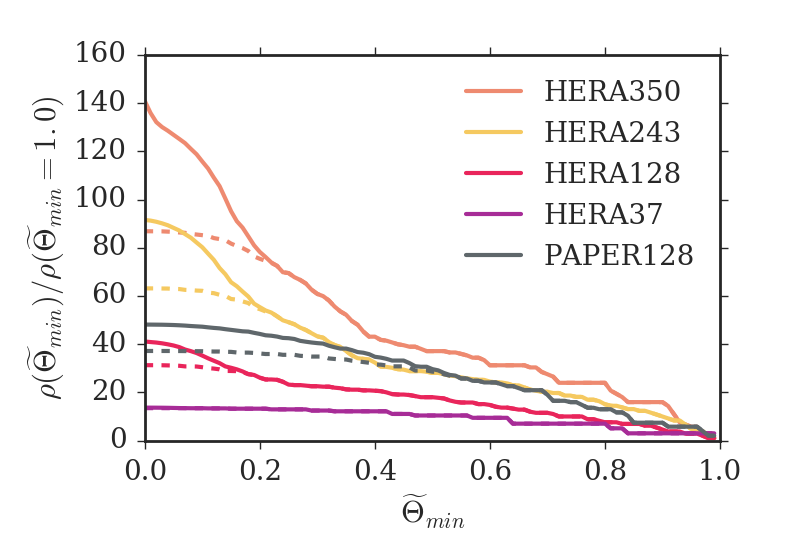
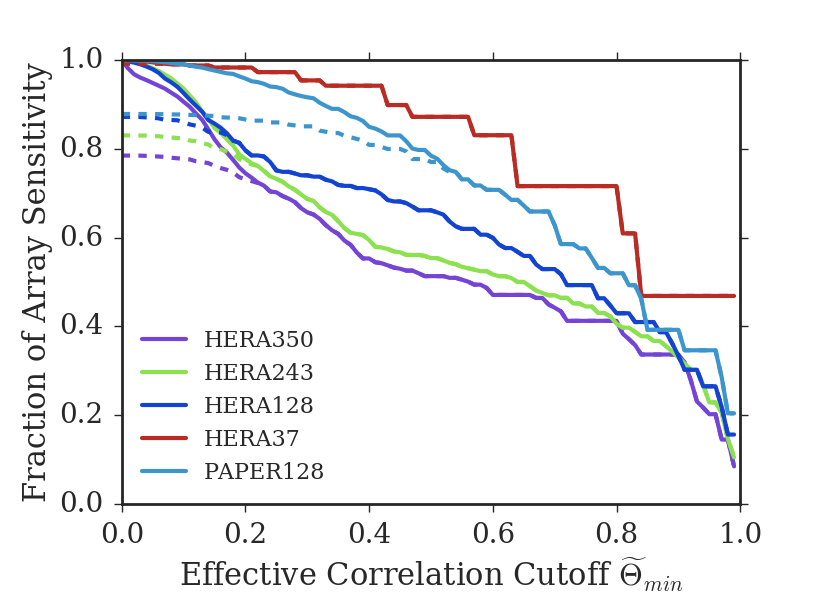
new draft

diff --git a/Rotation paper/draft_working.tex b/Rotation paper/draft_working.tex
@@ -46,7 +46,7 @@ of its own, but also as a gateway to crucial information
 regarding fundamental physics of inflation, neutrino mass, and the phenomenology
 of the first stars and galaxies (e.g. \citealt{LiuOpticalDepth, Liu2016b, Mao2008, DEw21cm, Bull2015, Oyama20131186}). 
 
-Observational studies of reionization, including Gunn-Peterson measurements of quasi-stellar objects \citep{Fan2006} and Cosmic Microwave Background temperature and anisotropy measurements (CMB; \citealt{Planck2016}), the Kinetic Sunyaev-Zeldo'vich effect \citep{kszpatchy} and Lyman alpha galaxy observations \citep{mcquinnLyA} have given us indications of the rough time-frame of reionization, but only limited constraints on the finer spatial and temporal structures. A surge of recent radio-astronomical experiments of reionization focus on measuring the ``spin-flip'' transition of neutral
+Observational studies of reionization, including Gunn-Peterson measurements of quasi-stellar objects \citep{Fan2006} and Cosmic Microwave Background temperature and anisotropy measurements (CMB; \citealt{Planck2016}), the Kinetic Sunyaev-Zeldo'vich effect \citep{ZahnKSZ, GeorgeKSZ, kszpatchy} and Lyman alpha galaxy observations \citep{Rhoads2017, Rhoads2012, mcquinnLyA} have given us indications of the rough time-frame of reionization, but only limited constraints on the finer spatial and temporal structures. A surge of recent radio-astronomical experiments of reionization focus on measuring the ``spin-flip'' transition of neutral
 hydrogen with a characteristic wavelength of 21\,cm \citep{Furlanetto2006181,PritchardLoeb}.
 The 21\,cm brightness temperature is a direct tracer of neutral hydrogen through the epoch of reionization, and thus by measuring the three dimensional distribution of the 21\,cm signal we measure the full temporal and spatial variations of this event. 
 However, before realizing full-scale 21\,cm tomography, many current radio interferometric efforts
@@ -55,7 +55,7 @@ Current-generation instruments include the Donald C. Backer Precision Array for 
 the Epoch of Reionization (PAPER; \citealt{Ali2015,paper32}), Murchison
 Widefield Array (MWA; \citealt{Bowman2013, Tingay2013}), Low Frequency Array (LOFAR; \citealt{LOFAR}). Next-generation instruments include the Hydrogen Epoch of Reionization
 Array (HERA; e.g. \citealt{HERA,HERAconfiguration,HERABEAM1,HERADISH2}) under construction, 
-and the Square Kilometer Array Low (SKA-low; e.g. \citealt{SKA1}) currently in planning stages. 
+and the Square Kilometer Array Low (SKA-low; e.g. \citealt{skalow2015} and references therein) currently in planning stages. 
 
 The highly redshifted 21\,cm signal is faint and diffuse, in contrast to the localized bright sources targeted by many traditional radio telescopes.  Current 21\,cm experiments are sensitivity-starved, with the sensitivity requirement further increased considering the foreground contaminations five orders of magnitude brighter than the cosmological signal of interest. Low-frequency radio interferometers aiming to measure the 21\,cm signal are thus designed differently from traditional instruments. To satisfy the sensitivity needs, modern arrays are large. Ranging upwards from 100 elements, these arrays are typically of the drift-scan type to limit cost. To further improve sensitivity, specially designed arrays such as PAPER and HERA feature multiple copies of the same baselines to repeatedly measure the same Fourier signal\citep{first-paper}. 
 
@@ -225,12 +225,11 @@ Eqs. \eqref{eq:nur} and \eqref{eq:thinshell} show that observational angular and
 \normalsize
 Here the delay $\tau$ is the Fourier dual of $\nu$. Eq. \eqref{eq:Vb1} expresses the delay-transformed visibility as
 an integral over observational coordinates $\hat{\boldsymbol{s}}$ and $\nu$. For notational simplicity here and in the rest of this paper, we have defined the quantity
+
 \[
 B(\hat{\boldsymbol{s}},\nu) \equiv \frac{2k_B}{\lambda^2}\phi(\nu)A(\hat{\boldsymbol{s}},\nu). 
 \label{eq:B}
 \]
-
-
 
 With Eqs. \eqref{eq:nur} and \eqref{eq:thinshell}, we can rewrite the delayed-transformed visibility in cosmological coordinates as 
 \small
@@ -356,7 +355,7 @@ To illustrate the effect of rephasing, we compare in Fig. \ref{fig:freqdiff} rea
 We see from Fig. \ref{fig:freqdiff} that although the amplitude of correlations match up for all time offsets, the phase would only locally match. The need for rephasing can thus be understood as a symptom of the underlying spatial decoherence; coherence at the phase center would not extend to the entire beam pattern (see Section \ref{sec:visual}). Thus while integrating over frequencies and sky-direction in Eq. \eqref{eq:Theta} there are necessarily sky-directions that do not add coherently. This decoherence across the beam pattern cannot be removed and plays a fundamental role in determining how much sensitivity one can recover from nearly equivalent baselines. 
 
 \begin{figure}[H]
-\includegraphics[width=1.1\linewidth]{rephs}
+\includegraphics[width=1.1\linewidth]{rephs_cm}
 
 \caption{Comparisons of the peak phases of two different frequencies. Specifically shown are the real parts of $\Theta_{\nu}$. First and third panels shows equivalent baselines, second and fourth show a pair of nearly equivalents. The top two panels have zero phase shift ($\psi_{\nu}=0$), and the bottom two are rephased to a time offset of 0.0325 sidereal days. The first and last panels thus show a coherently rephased series that would add constructively at the respective peaks. }
 \label{fig:freqdiff}
@@ -370,10 +369,10 @@ In this section we delve into visualizing and testing our method, and explore se
 So far for clarity and generality we have avoided the traditional formulation of radio astronomy in terms of the $uv$-plane. To gain some visual intuition of the formalism in Section \ref{sec:method}, we show explicit beam fringe patterns of the two baselines and their interactions. For this section, we relax into the flat sky approximation so that $(l,m,\sqrt{1-l^2-m^2})\equiv\hat{s}$ and examine a single frequency of $150$\,MHz. 
 
 At the time offset of maximum redundancy, we expect two baselines to have to same fringe pattern in both frequency and phase. Due to the time delay, however, the beam centers would be slightly shifted with respect to each other. In the top panels of Fig. \ref{fig:beamfringe}, we show the real parts of peak-normalized beam-fringe patterns. The top left and middle panels show the beam-fringe
-patterns for the baseline classes \{2,0\} and \{2,1\}, offset by 0.0325 sidereal days. More specifically, displayed are the real parts of $B(\hat{\boldsymbol{s}},\nu)\exp\left[-i2\pi\frac{\nu}{c}\hat{\boldsymbol{s}}\cdot\boldsymbol{b}\right]$ and $B(\boldsymbol{\Gamma}\hat{\boldsymbol{s}},\nu)\exp\left[-i2\pi\frac{\nu}{c}\boldsymbol{\Gamma}\hat{\boldsymbol{s}}\cdot\boldsymbol{b'}\right]$, respectively. The top right panel show their conjugate product $B^{*}(\hat{\boldsymbol{s}},\nu)B(\boldsymbol{\Gamma}\hat{\boldsymbol{s}},\nu)\exp\left[i2\pi\frac{\nu}{c}\left(\hat{\boldsymbol{s}}\cdot\boldsymbol{b}-\boldsymbol{\Gamma}\hat{\boldsymbol{s}}\cdot\boldsymbol{b'}\right)-i\psi_{\nu}\right]$, where we have chosen global phase $\psi_{\nu}$ such that the peak of the conjugate product is real. The product of the beam fringe patterns in top right shows that the fringes
- cancel out as we expect. Comparing with Eq. \eqref{eq:Thetanu}, we see that $\Theta_\nu$ is the sum over the top right plot. Thus we show that at the optimal time offset the fringe patterns of the two baselines cancel out, leading to a substantial weight $\Theta_\nu$. The frequency-summed weight $\Theta$ is constructed with rephasing as described in Section \ref{sec:rephs} so that the conjugate product (top right panel) for different frequencies align in phase. 
+patterns for the baseline classes \{2,0\} and \{2,1\}, offset by 0.0325 sidereal days. More specifically, displayed are the real parts of $g_b\equiv B(\hat{\boldsymbol{s}},\nu)\exp\left[-i2\pi\frac{\nu}{c}\hat{\boldsymbol{s}}\cdot\boldsymbol{b}\right]$ and $g_{b'}\equiv B(\boldsymbol{\Gamma}\hat{\boldsymbol{s}},\nu)\exp\left[-i2\pi\frac{\nu}{c}\boldsymbol{\Gamma}\hat{\boldsymbol{s}}\cdot\boldsymbol{b'}\right]$, respectively. The top right panel show their conjugate product $g_{b}^{*}g_{b'} = B^{*}(\hat{\boldsymbol{s}},\nu)B(\boldsymbol{\Gamma}\hat{\boldsymbol{s}},\nu)\exp\left[i2\pi\frac{\nu}{c}\left(\hat{\boldsymbol{s}}\cdot\boldsymbol{b}-\boldsymbol{\Gamma}\hat{\boldsymbol{s}}\cdot\boldsymbol{b'}\right)-i\psi_{\nu}\right]$, where we have chosen global phase $\psi_{\nu}$ such that the peak of the conjugate product is real. The product of the beam fringe patterns in top right shows that the fringes
+ cancel out as we expect. Comparing with Eq. \eqref{eq:Thetanu}, we see that $\Theta_\nu=\int d\Omega g_{b}^{*}g_{b'}$ is the sum over the image shown in the top right panel. Thus we show that at the optimal time offset the fringe patterns of the two baselines cancel out, leading to a substantial weight $\Theta_\nu$. The frequency-summed weight $\Theta$ is constructed with rephasing as described in Section \ref{sec:rephs} so that the conjugate product (top right panel) for different frequencies align in phase. 
  
-Similarly, we show the correlation of the two baselines in terms of their $uv$ beam spread overlap. The bottom left and middle panels are (peak-normalized) instantaneous $uv$ coverage of two baselines while the bottom right panel is their product. We see from the bottom right panel that the cross-multiplied baselines recover power concentrated at $u\approx15$. The product of the $uv$ beams spread shown in the bottom right panel should not be confused with the Fourier transform of the beam-fringe conjugate product shown in the top right panel. 
+Similarly, we show the correlation of the two baselines in terms of their $uv$ beam spread overlap. The bottom left and middle panels are (peak-normalized) instantaneous $uv$ coverage of two baselines ($\widetilde{g}_{b}$ and $\widetilde{g}_{b'}$) while the bottom right panel is their product. We see from the bottom right panel that the cross-multiplied baselines recover power concentrated at $u\approx15$. The product of the $uv$ beams spread shown in the bottom right panel should not be confused with the Fourier transform of the beam-fringe conjugate product shown in the top right panel. 
 
 \begin{figure*}[h!]
 \includegraphics[width=\textwidth]{BeamFringe}
@@ -526,9 +525,9 @@ With $\widetilde{\Theta}_{\boldsymbol{bb'}}$, we can estimate the power spectrum
 where the sum is over classes of baseline pairs, and the power spectrum noise covariance $\sigma_P^2$ is proportional to the effective weight $\widetilde{\Theta}$. 
 
 
-We define the estimator sensitivity to be the inverse of the total power spectrum noise variance $\Sigma_P^2$:
+We define the estimator sensitivity to be the square root of the inverse of the total power spectrum noise variance $\Sigma_P^2$:
 \begin{equation}
-\rho \propto 1/\Sigma_P^2 \propto \rho_0^2\sum_{\boldsymbol{bb'}}^N\widetilde{\Theta}^2_{\boldsymbol{bb'}},
+\rho \propto 1/\Sigma_P \propto \rho_0\sqrt{\sum_{\boldsymbol{bb'}}^N\widetilde{\Theta}^2_{\boldsymbol{bb'}}},
 \end{equation}
 where, if $\sigma_S^2$ and $\sigma_N^2$ are the characteristic signal and noise levels of a single-baseline visibility, $\rho_0\equiv\sigma_S^2/\sigma_N^2$ is the signal to noise ratio. 
 
@@ -562,24 +561,25 @@ In Fig. \ref{fig:pairplot} we present pair-distributions of three different prop
 \begin{itemize}
 
 \item $\Delta t_{\boldsymbol{bb'}}$ vs. $\widetilde{\Theta}_{\boldsymbol{bb'}}$:
-This relation  is familiar from Fig. \ref{fig:sensplot}. The points at $\Delta t=0$ are the equivalent baselines. Note HERA arrays have fewer data points with high $\Delta t_{\boldsymbol{bb'}}$, due to their comparatively narrow beam. 
+This relation  is familiar from Fig. \ref{fig:sensplot}. The points at $\Delta t=0$ are the equivalent baselines. Note HERA arrays have fewer data points with high $\Delta t_{\boldsymbol{bb'}}$, due to their comparatively narrow beam. Also note that all near-equivalent pairs for HERA arrays appear at $\widetilde{\Theta}_{\boldsymbol{bb'}}\lesssim 0.4$.
 
 \item $\Delta t_{\boldsymbol{bb'}}$ vs. $\bar{b}$:
 PAPER-128 shows the trend that longer baselines correspond to lower $\Delta t_{\boldsymbol{bb'}}$. HERA arrays do not exhibit this trend here because of a selection effect. Only baseline pairs with $\widetilde{\Theta}_{\boldsymbol{bb'}}>0.01$ are shown. Shorter HERA baselines require much longer $\Delta t$ to overlap, partly because of the hexagonal structure requires $60\degree$ of rotation to overlap baselines, partly because of the smaller primary beam. Thus most short HERA baseline pairs are not shown in this figure.
 
 
 \item $\widetilde{\Theta}_{\boldsymbol{bb'}}$ vs. $\bar{b}$:
-The general trend to be seen here is that longer baselines tend to have lower $\widetilde{\Theta}_{\boldsymbol{bb'}}$. This is due to the lower multiplicity of longer baselines. The trend is particularly obvious in the linear structure for the HERA arrays, which are the equivalent baselines. Since they all have the unity $\Theta_{\boldsymbol{bb'}}$ by definition, the linearly decreasing trend of $\widetilde{\Theta}_{\boldsymbol{bb'}}$ is a direct measure of the baseline multiplicity structures of the HERA array configurations.
+In this plot the HERA arrays each show two superimposed structures.  The equivalent baselines, all having the same individual weight $\Theta_{\boldsymbol{bb'}}$, appear as elongated structures towards high $\widetilde{\Theta}_{\boldsymbol{bb'}}$. The narrowness of these structures is an indication of the approximately linear and one-to-one correspondence between baseline length and multiplicity. The wide structures spanning the whole range of $\bar{b}$ are the near-equivalent baseline pairs. We see again for HERA arrays all near-equivalent pairs appear at $\widetilde{\Theta}_{\boldsymbol{bb'}}\lesssim 0.4$. For PAPER-128, the existence of short near-equivalent pairs with high multiplicity partially fills the high $\widetilde{\Theta}_{\boldsymbol{bb'}}$ region. 
+Note the general trend that longer baselines tend to have lower $\widetilde{\Theta}_{\boldsymbol{bb'}}$. This is due to the lower multiplicity of longer baselines. The trend is particularly obvious in the linear structure for the HERA arrays, which are the equivalent baselines. Since they all have the unity $\Theta_{\boldsymbol{bb'}}$ by definition, the linearly decreasing trend of $\widetilde{\Theta}_{\boldsymbol{bb'}}$ is a direct measure of the baseline multiplicity structures of the HERA array configurations.
 
 \item The top sensitivity-contributing near-equivalent pair in each array is normalized to the same $\Theta_{\boldsymbol{bb'}}$ (not shown), but those of HERA arrays have much lower $\widetilde{\Theta}_{\boldsymbol{bb'}}$ than the top pair of PAPER-128. This is because they are longer baselines with lower multiplicity. In the end these baseline classes still lead to high contributions to total sensitivity (Fig. \ref{fig:osens}) because there are a lot more such baseline pairs for HERA.  
 
 \end{itemize}
 
-Clearly not all baseline pairs give significant contribution to sensitivity. Due to the large number of baseline pairs, it may not be computationally feasible to include all pairs. Having quantified the sensitivity from a given pair of baselines, we study the cumulative sensitivity of the array depending on which baseline pairs we include. Evidently we should prefer the pairs with larger $\widetilde{\Theta}_{\boldsymbol{bb'}}$. In Fig. \ref{fig:osens} we plot $\rho$ against the minimum $\widetilde{\Theta}_{\boldsymbol{bb'}}$. $\rho(\widetilde{\Theta}_{min})$ is the sensitivity of the array when baseline-pairs that have $\widetilde{\Theta}_{\boldsymbol{bb'}}>\widetilde{\Theta}_{min}$ are included. The dashed lines represent the values when only the equivalent baseline-pairs are used.  We see as expected that in all cases using the nearly equivalent baselines lead to more and more significant improvements with lower $\widetilde{\Theta}_{min}$, or in other words when more baseline pairs are used. The small HERA37, with no gap (like in HERA350) or short nearly equivalent baselines (like in PAPER 128), will not benefit much from the nearly equivalent baselines. The maximum benefits for other cases are expected to be around $20\%$ to $60\%$. PAPER-128 is designed with highly redundant nearly equivalent baselines, and thus  these baselines start contributing at higher $\widetilde{\Theta}_{min}$, but the gapped HERA configurations will benefit even more from nearly equivalent baselines at low $\widetilde{\Theta}_{min}$ due to the presence of more classes of such pairs. Note that here we normalized $\rho$ such that the contribution of the top equivalent baseline pair, such as are 1. This plot therefore does not compare the absolute sensitivity across the different arrays. The stepwise pattern is characteristic of a regular grid; as we step to lower $\widetilde{\Theta}_{\boldsymbol{bb'}}$ large groups of baseline pair classes get included in ``batch''. 
+Clearly not all baseline pairs give significant contribution to sensitivity. Due to the large number of baseline pairs, it may not be computationally feasible to include all pairs. Having quantified the sensitivity from a given pair of baselines, we study the cumulative sensitivity of the array depending on which baseline pairs we include. Evidently we should prefer the pairs with larger $\widetilde{\Theta}_{\boldsymbol{bb'}}$. In Fig. \ref{fig:osens} we plot $\rho$ against the minimum $\widetilde{\Theta}_{\boldsymbol{bb'}}$. $\rho(\widetilde{\Theta}_{min})$ is the sensitivity of the array when baseline-pairs that have $\widetilde{\Theta}_{\boldsymbol{bb'}}>\widetilde{\Theta}_{min}$ are included. The dashed lines represent the values when only the equivalent baseline-pairs are used.  We see as expected that in all cases using the nearly equivalent baselines lead to more and more significant improvements with lower $\widetilde{\Theta}_{min}$, or in other words when more baseline pairs are used. The small HERA37, with no gap (like in HERA350) or short nearly equivalent baselines (like in PAPER 128), will not benefit much from the nearly equivalent baselines. Near-equivalent baselines make an increasingly significant contribution to the total sensitivity as the number of array elements are increased. PAPER-128 is designed with highly redundant nearly equivalent baselines, and thus  these baselines start contributing at higher $\widetilde{\Theta}_{min}$, but the gapped HERA configurations will benefit even more from nearly equivalent baselines at low $\widetilde{\Theta}_{min}$ due to the presence of more classes of such pairs. Note that here we normalized sensitivity for each array as the fraction of the total sensitivity when all baseline pairs are used. The plot therefore does not compare absolute sensitivity across different arrays. The stepwise pattern seen in almost all cases are characteristic of a regular grid; as we step to lower $\widetilde{\Theta}_{\boldsymbol{bb'}}$ large groups of baseline pair classes get included in ``batch''. Thus the ``gapless'' HERA37, with more regularity in its antenna configurations than the larger counterparts, exhibit more step patterns in fractional sensitivity. 
 %\begin{centered}
 \begin{figure}[H]
 \includegraphics[width=\linewidth]{osens}
-\caption{Sensitivity of redundant arrays as a function of the minimum effective weight. Dashed lines represent when only equivalent baseline pairs are used, while solid lines indicate use of both the equivalent and nearly equivalent baselines are used. The vertical axis is normalized independently for each array such that the contribution of the top single equivalent pair class is unity, and thus does not indicate a comparison of absolute sensitivity across the different arrays shown.  }
+\caption{Fractional sensitivity of redundant arrays as a function of the minimum effective weight. Dashed lines represent when only equivalent baseline pairs are used, while solid lines indicate use of both the equivalent and nearly equivalent baselines are used. The vertical axis is normalized independently for each array to the total sensitivity when all baseline pairs, equivalent and near-equivalent, are used.}
 \label{fig:osens}
 \end{figure}
 %\end{centered}
